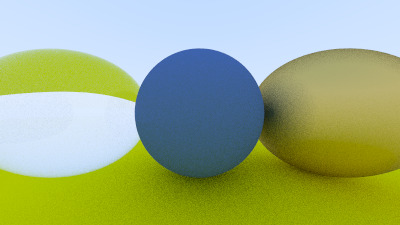
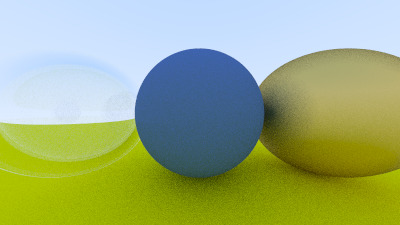
Implement 10.36.

Changed region(s): [[0.0, 0.5289, 0.36, 0.8089], [0.0, 0.2178, 0.36, 0.4667]]

diff --git a/src/lib.rs b/src/lib.rs
@@ -68,6 +68,11 @@ pub fn render() {
     world.add(Rc::new(Sphere::new(
         Point3::new([-1.0, 0.0, -1.0]),
         0.5,
+        material_left.clone(),
+    )));
+    world.add(Rc::new(Sphere::new(
+        Point3::new([-1.0, 0.0, -1.0]),
+        -0.4,
         material_left,
     )));
     world.add(Rc::new(Sphere::new(
